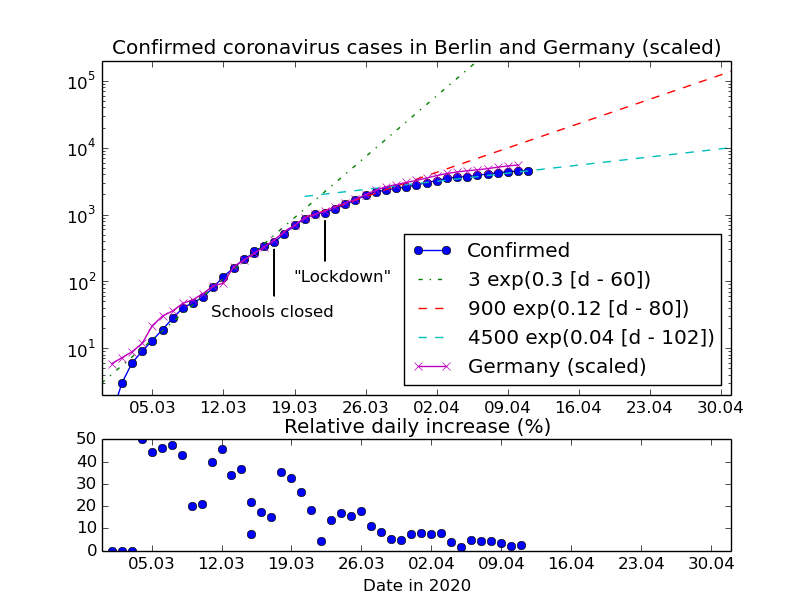
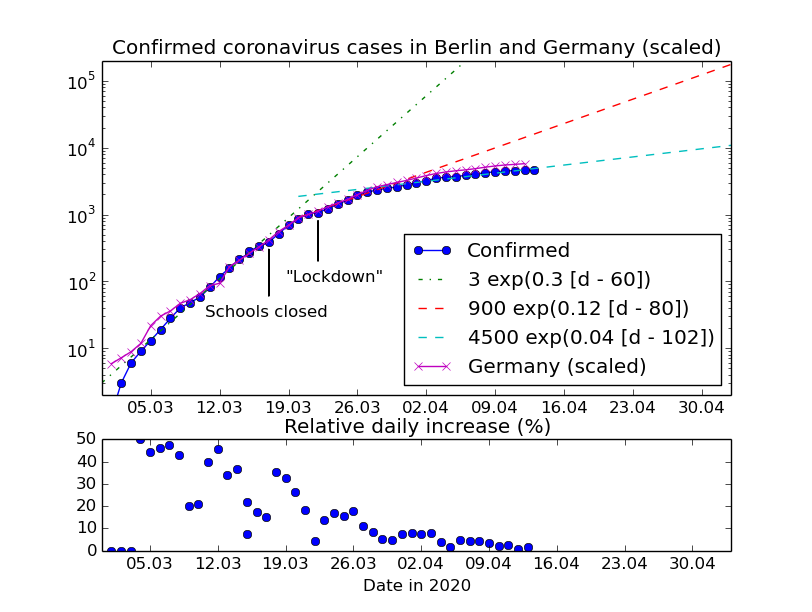
Update to 2020-04-13; Model update, extrapolate to May 1

diff --git a/plot.py b/plot.py
@@ -57,6 +57,7 @@ A_3 = 4500
 r_3 = 0.04
 doys_z3 = doys_z2
 z_3 = A_3 * np.exp(r_3 * (doys_z3 - 102))
+print('On', horizon_datetime, 'predict', int(z_3[-1]))
 
 fig = plt.figure()
 gs = matplotlib.gridspec.GridSpec(nrows=2, ncols=1, height_ratios=[3,1])
